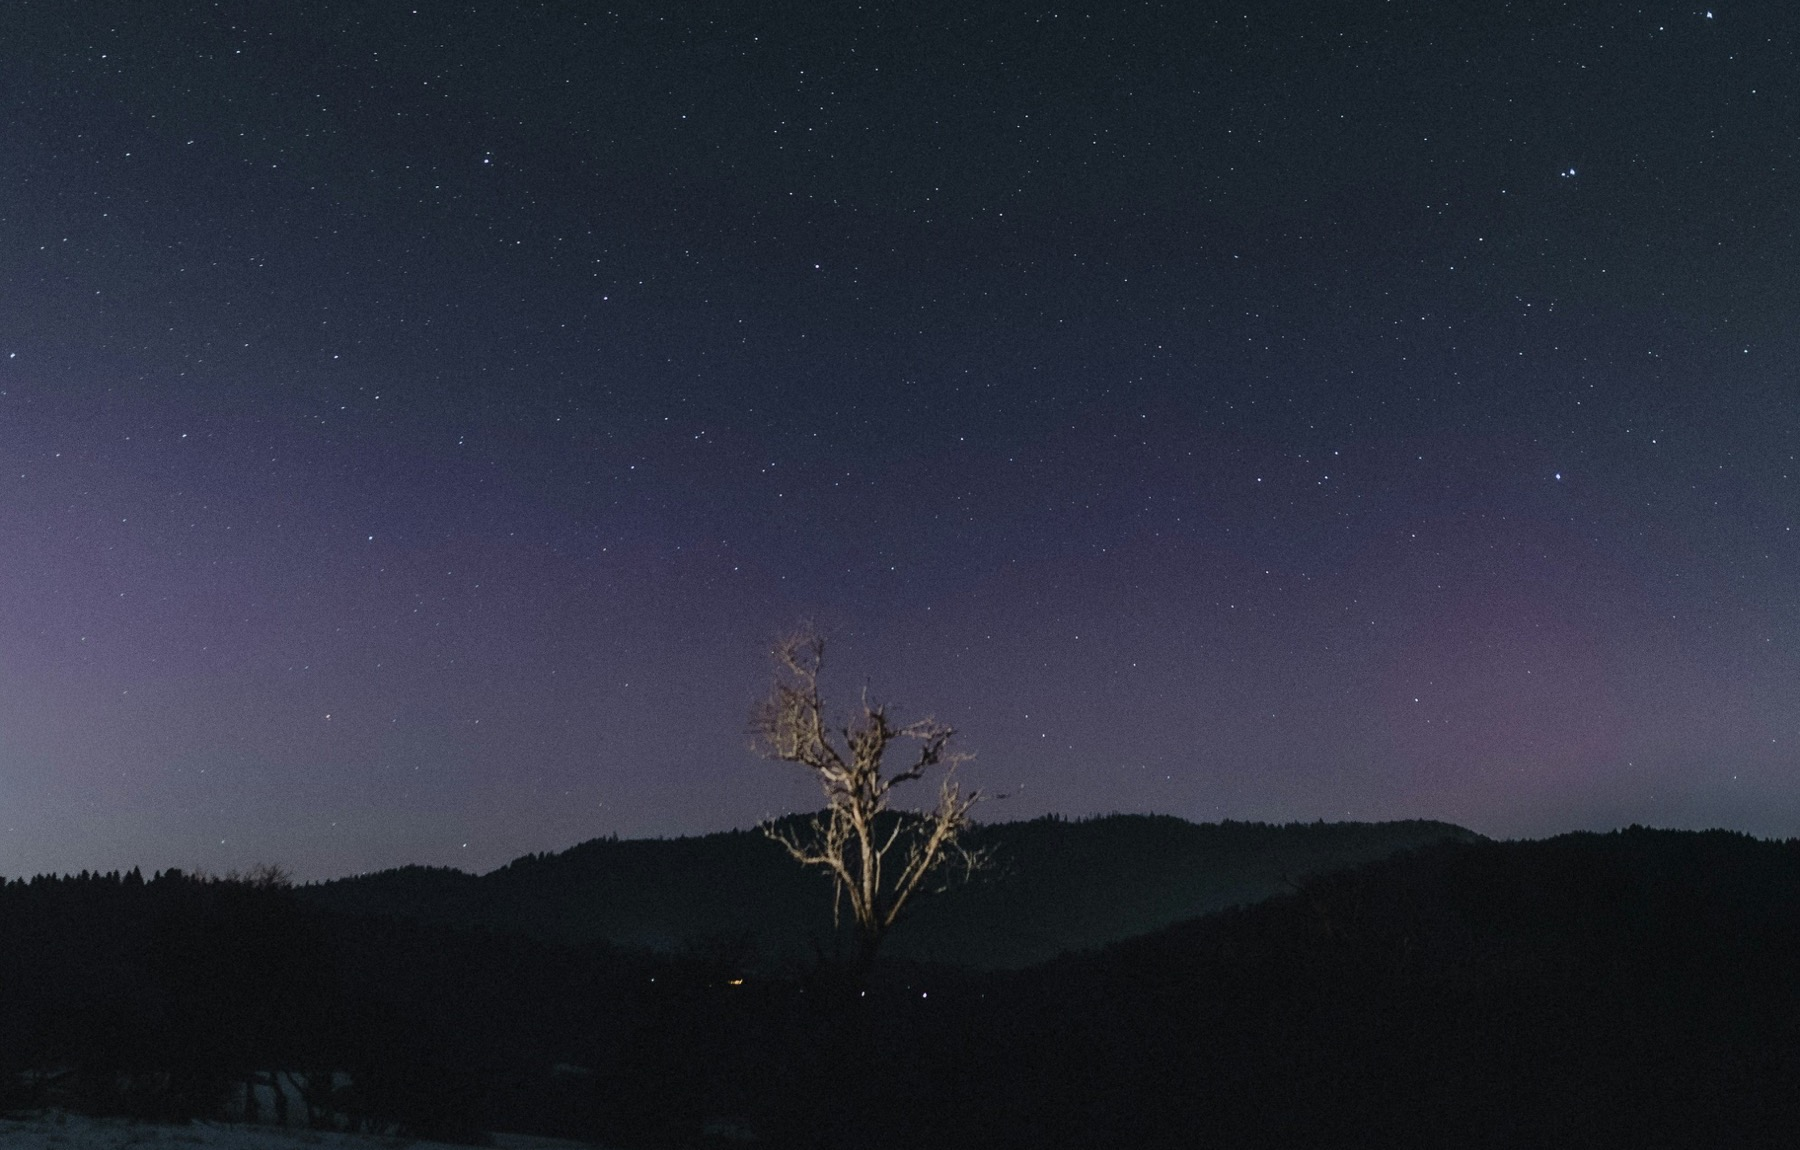
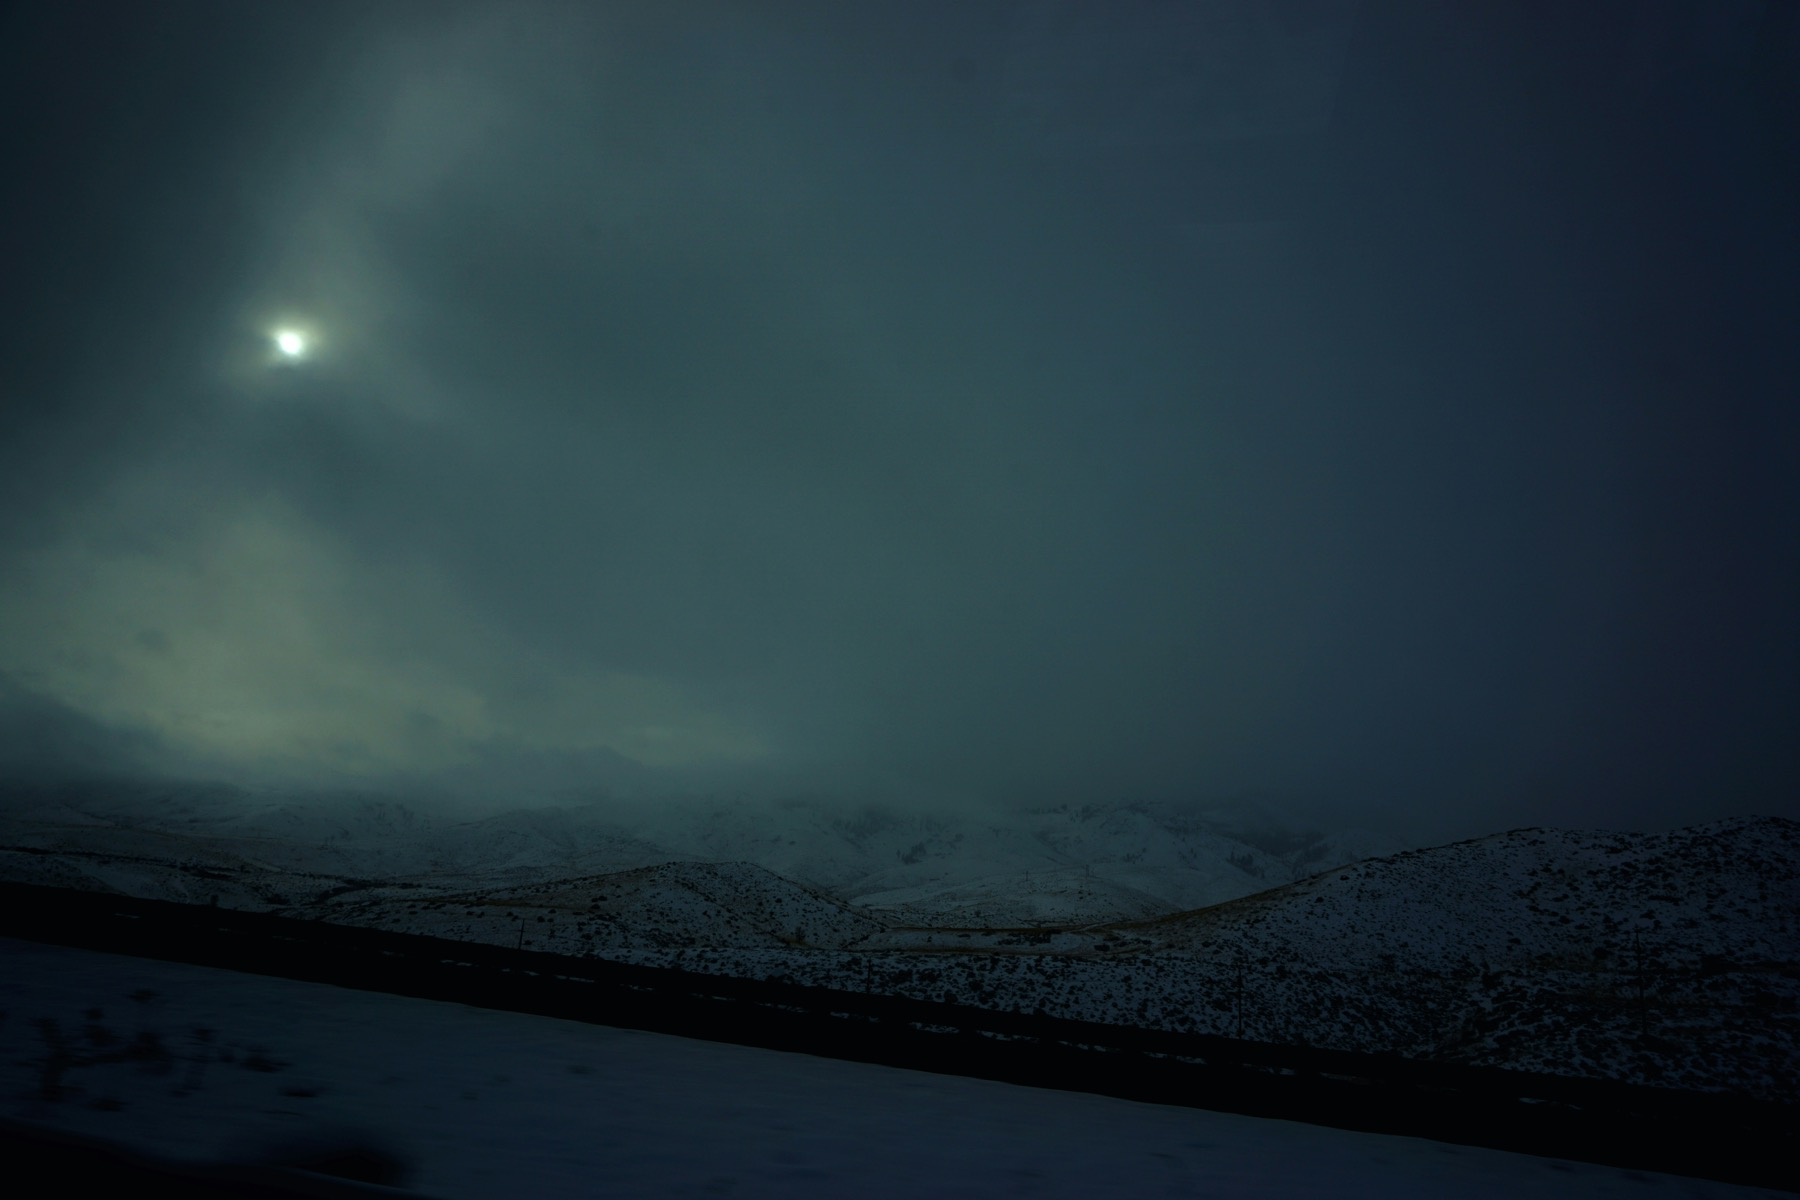
Kruh 18. 12.: fotka od Cecilie Tran

diff --git a/src/app/content/circles.ts b/src/app/content/circles.ts
@@ -62,10 +62,9 @@ export const circles: Circle[] = [
     cancellation:
       'Pokud se nemůžete zúčastnit z vážného důvodu, například kvůli nemoci, vrátím vám celou částku. V ostatních případech můžete za sebe poslat jinou ženu, nebo vám částku vrátím, pokud vaše místo obsadí náhradnice. Pokud kruh zruším já, vracím celou částku.',
     image: '/images/photos/kruh-slunovrat.jpg',
-    imageAlt: 'Osamělý strom pod hvězdnou zimní oblohou',
-    imageCredit: 'Filip Kvasnak',
-    imageCreditUrl:
-      'https://unsplash.com/photos/lone-tree-under-a-starry-night-sky-N6ezQsnj_Ak?utm_source=unsplash&utm_medium=referral&utm_content=creditCopyText',
+    imageAlt: 'Zasněžené kopce a zimní slunce v mlze',
+    imageCredit: 'Cecilia Tran',
+    imageCreditUrl: 'https://unsplash.com/photos/lfNe3PUE3cQ',
   },
   {
     slug: 'duvera-v-case-kdy-nic-nekvete',
